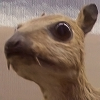
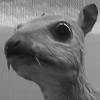
Seprate core arena

diff --git a/include/core.h b/include/core.h
@@ -58,13 +58,48 @@ void number_buf_assign(void* pixel, PixelBuf* buf, int x, int y);
 
 void kernel_apply(KernelOpsInterace interface, Kernel kernel, PixelBuf* in_buf, PixelBuf* out_buf);
 
+void core_init();
+void core_dispose();
 
 
+
+KernelOpsInterace number_kernel_interface;
+KernelOpsInterace pixel_kernel_interface;
+Arena _core_arena;
 
 
 #endif //CORE_H
 
 #ifdef CORE_IMPLEMENTATION_H
+
+
+void core_init() {
+    arena_init(&_core_arena,1024);
+
+    pixel_kernel_interface = (KernelOpsInterace) {
+        .zero = pixel_zero,
+        .add = pixel_add,
+        .mult = pixel_mult,
+        .buf_assign = pixel_buf_assign,
+        .buf_mult = pixel_buf_mult,
+        .acc = arena_alloc_of(&_core_arena,Pixel,1),
+        .tmp = arena_alloc_of(&_core_arena,Pixel,1),
+    };
+    number_kernel_interface = (KernelOpsInterace) {
+        .zero = number_zero,
+        .add = number_add,
+        .mult = number_mult,
+        .buf_assign = number_buf_assign,
+        .buf_mult = number_buf_mult,
+        .acc = arena_alloc_of(&_core_arena,int,1),
+        .tmp = arena_alloc_of(&_core_arena,int,1),
+    };
+}
+
+void core_dispose() {
+    arena_dispose(&_core_arena);
+}
+
 
 PixelBuf pixelbuf_load(Arena* arena, char* fn, int comps) {
     if (comps == 0) comps = 1;
@@ -150,8 +185,8 @@ void kernel_apply(KernelOpsInterace interface, Kernel kernel, PixelBuf* in_buf, 
                     int yPos = y + cy;
                     if (xPos < 0) xPos = x;
                     if (yPos < 0) yPos = y;
-                    if (xPos >= in_buf->w) xPos -= in_buf->w;
-                    if (yPos >= in_buf->h) yPos -= in_buf->h;
+                    if (xPos >= in_buf->w) xPos = x;
+                    if (yPos >= in_buf->h) yPos = y;
 
                     float kernel_factor = kernel.matrix[(cy - kstart) * kernel.w + (cx - kstart)];
 

diff --git a/main.c b/main.c
@@ -14,36 +14,15 @@
 #include "arena.h"
 
 
-
-
-
-
 int main() {
     Arena arena;
     arena_init(&arena, 1024 * 1024 * 32);
-
-    KernelOpsInterace pixel_kernel_interface = {
-        .zero = pixel_zero,
-        .add = pixel_add,
-        .mult = pixel_mult,
-        .buf_assign = pixel_buf_assign,
-        .buf_mult = pixel_buf_mult,
-        .acc = arena_alloc_of(&arena,Pixel,1),
-        .tmp = arena_alloc_of(&arena,Pixel,1),
-    };
-    KernelOpsInterace number_kernel_interface = {
-        .zero = number_zero,
-        .add = number_add,
-        .mult = number_mult,
-        .buf_assign = number_buf_assign,
-        .buf_mult = number_buf_mult,
-        .acc = arena_alloc_of(&arena,int,1),
-        .tmp = arena_alloc_of(&arena,int,1),
-    };
+    core_init();
 
 
-    PixelBuf img_buf = pixelbuf_load(&arena, "assets/wiki.png", 3);
-    PixelBuf out_buf = { .w = img_buf.w, .h = img_buf.h, .comps = 3};
+
+    PixelBuf img_buf = pixelbuf_load(&arena, "assets/wiki.png", 1);
+    PixelBuf out_buf = { .w = img_buf.w, .h = img_buf.h, .comps = 1};
     out_buf.pixels = arena_alloc_of(&arena, uint8_t, img_buf.w * img_buf.h * out_buf.comps);
 
     Kernel kernel = {
@@ -54,14 +33,14 @@ int main() {
         // .w = 3, .h = 3, .factor = 1, .matrix = (int[]) { 0,0,0,0,1,0, 0,0,0}
         // .w = 3, .h = 3, .factor = 9, .matrix = (int[]) { 1,1,1, 1,1,1, 1,1,1}
         .w = 5, .h = 5, .factor = 256, .matrix = (int[])    {1, 4, 6, 4, 1, 4, 16, 24, 16, 4, 6, 24, 36, 24, 6, 4, 16, 24, 16, 4, 1, 4, 6, 4,  1}
-
     };
 
 
-    kernel_apply(pixel_kernel_interface, kernel, &img_buf, &out_buf);
+    kernel_apply(number_kernel_interface, kernel, &img_buf, &out_buf);
     pixelbuf_save(out_buf, "out.png");
     pixelbuf_save(img_buf, "img.png");
 
+    core_dispose();
     arena_dispose(&arena);
     return 0;
 }
